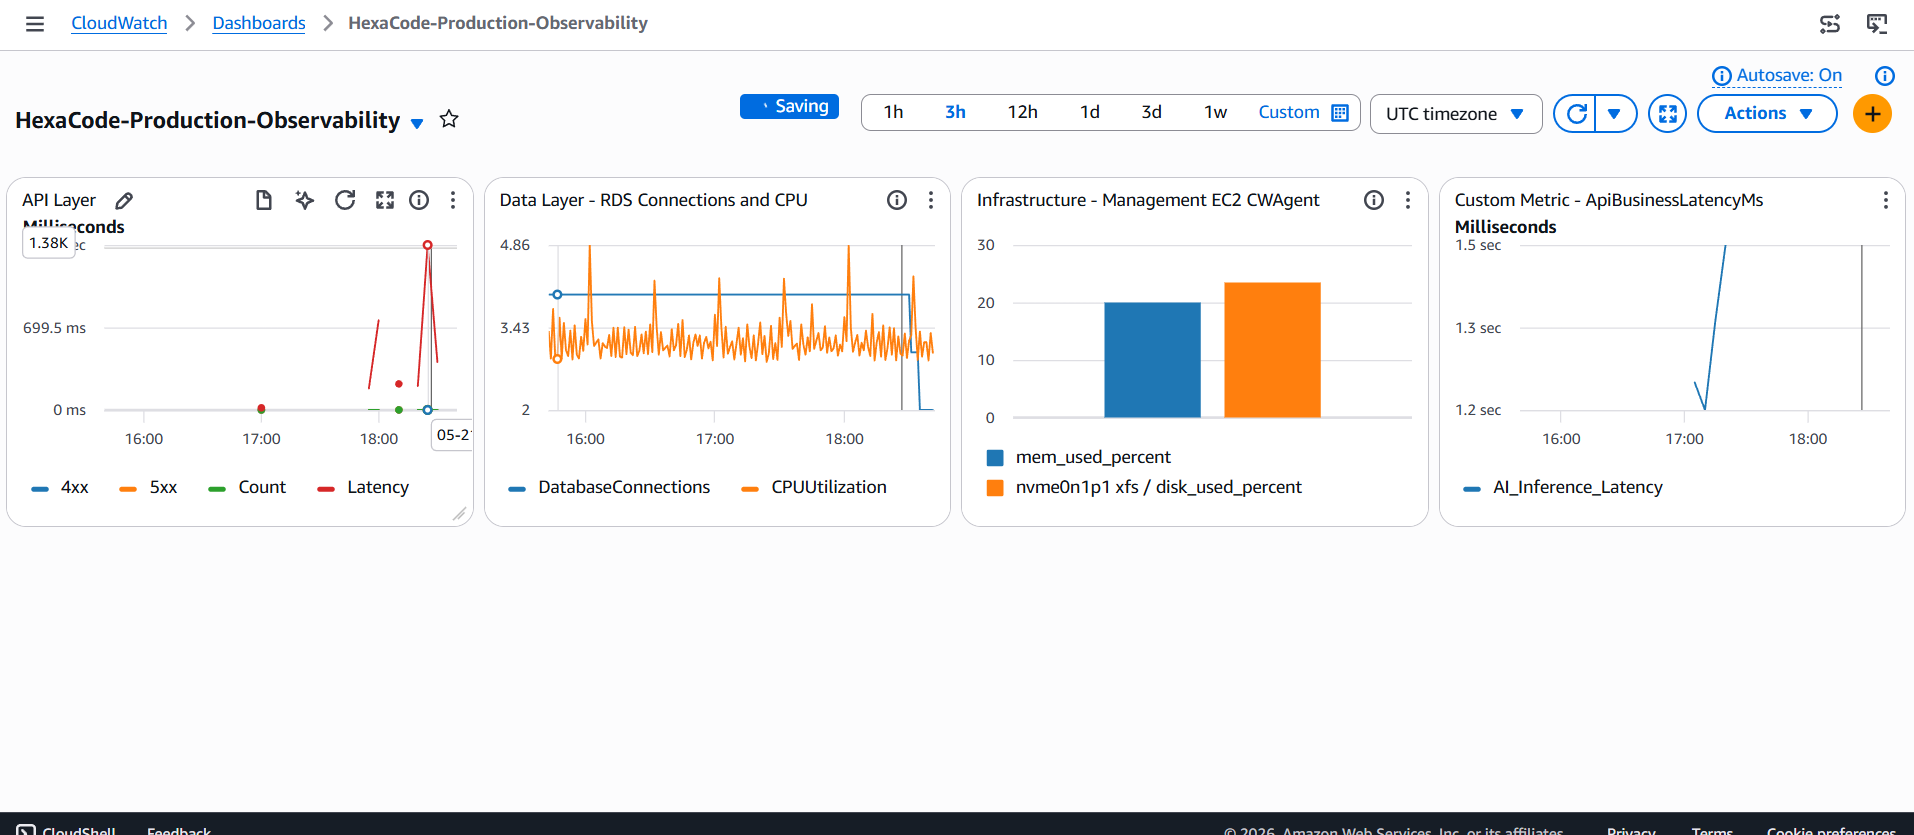
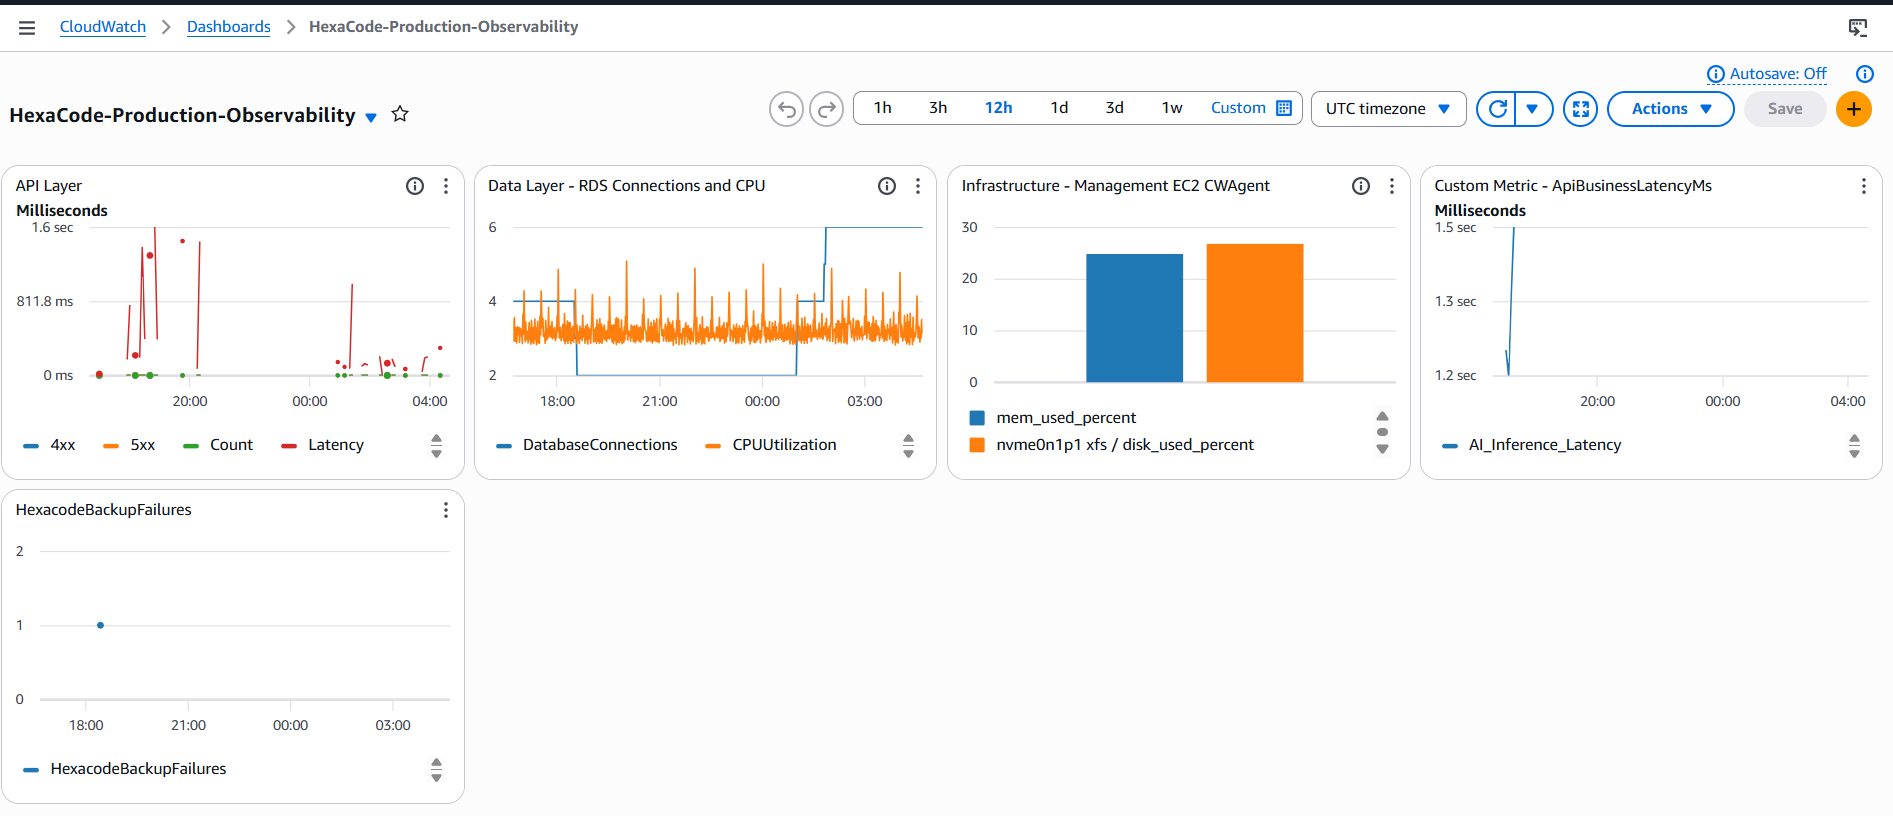
ok

diff --git a/docs/W6_evidence_G6.md b/docs/W6_evidence_G6.md
@@ -470,6 +470,10 @@ Filter logic: Trích xuất trường integrationLatency (hoặc responseLatency
 
 ![Custom metric data points](./images/w6-custom-metric.png)
 
+---
+
+![custom metric](./images/backupfailure.png)
+
 <sub>Note: Custom metric `HexacodeBackupFailures` trong namespace `HexaCode/Backup` — có datapoint thật từ failed restore verification jobs.</sub>
 
 ---